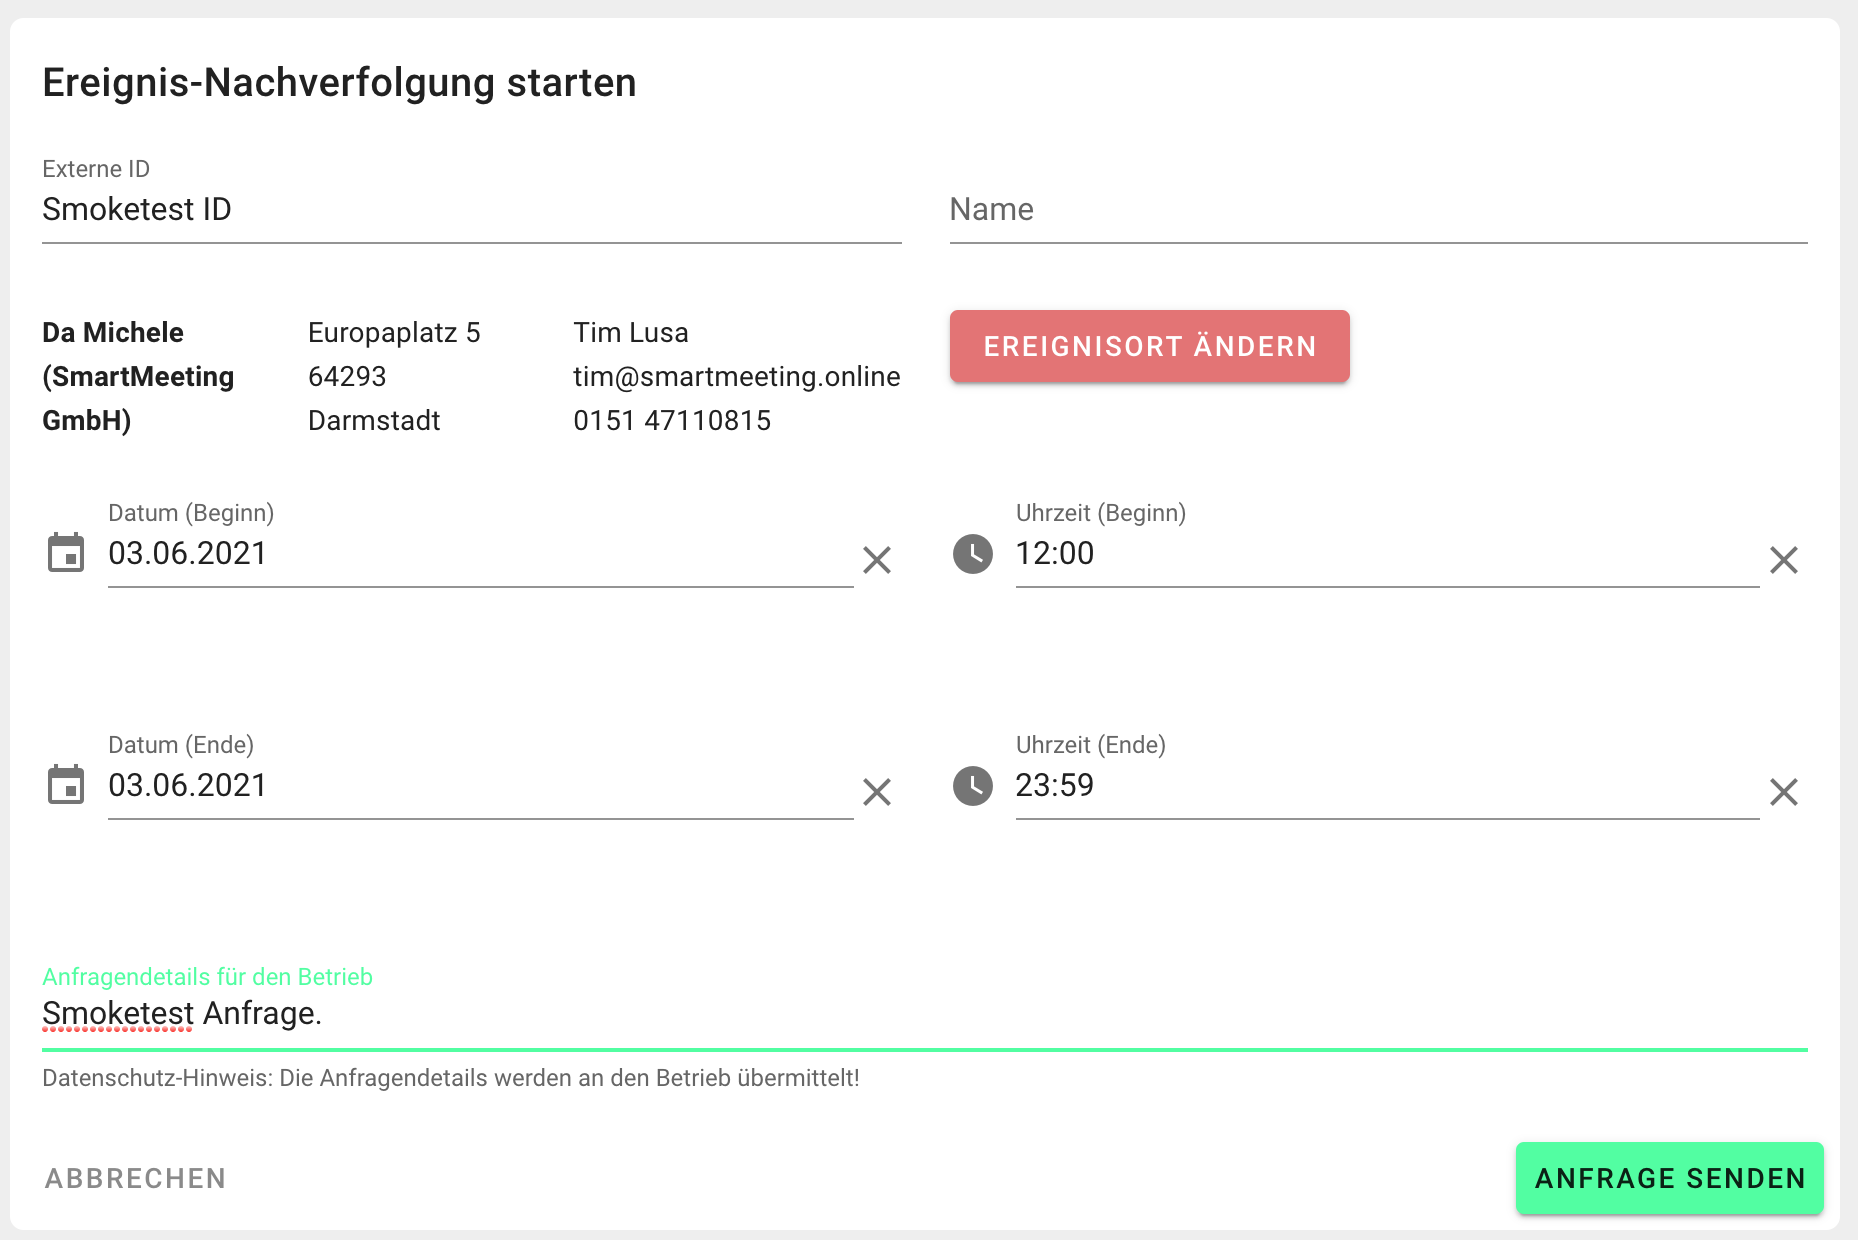
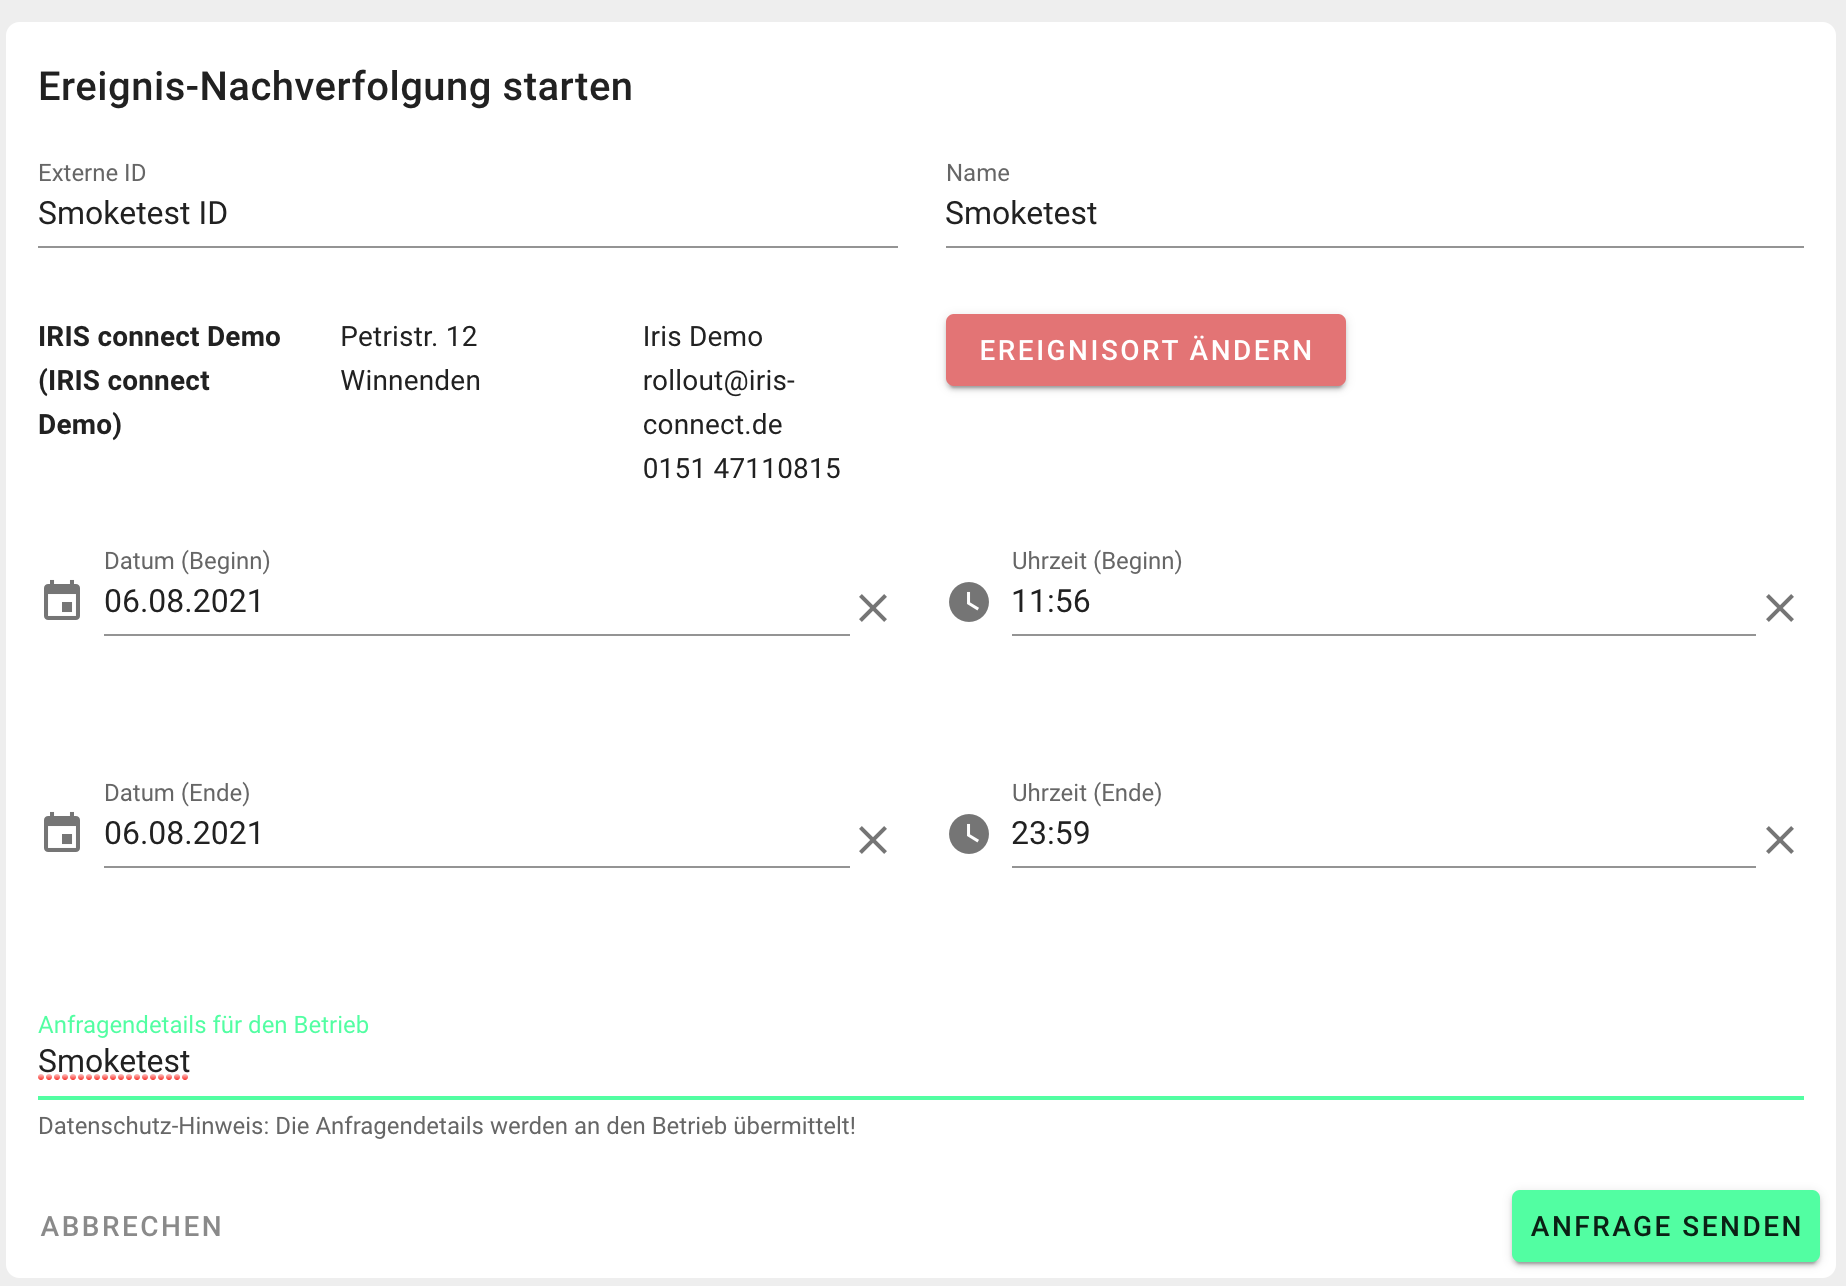
Updates smoketest with correct location.

diff --git a/infrastructure/deployment/docs/Smoketest.md b/infrastructure/deployment/docs/Smoketest.md
@@ -13,12 +13,25 @@ Unabhängig von der Installationsvariante können Sie testen, ob die Installatio
    ![](images/smoketest/NewEvent.png)
 
 
-1. Klicken Sie auf Ereignisort auswählen und suchen Sie nach `Da Michele (SmartMeeting GmbH)`. Klicken Sie auf `Wählen`.
+1. Klicken Sie auf Ereignisort auswählen und suchen Sie nach `IRIS connect Demo`. Klicken Sie auf `Wählen`.
 
    ![](images/smoketest/SearchResult.png)
 
-1. Füllen Sie die restlichen Anfrage Parameter aus. Wählen Sie als Zeitraum den 03. Juni von 12:00 bis 23:59. Klick Sie auf `Anfrage senden`.
+1. Füllen Sie die restlichen Anfrage Parameter aus. Sie können jeden beliebigen Zeitraum wählen. Klick Sie auf `Anfrage senden`.
 
    ![](images/smoketest/EventRequest.png)
 
-Bei `Da Michele (SmartMeeting GmbH)` handelt es sich um eine Test Lokation, die eigens für einen Smoketest zur Verfügung steht. Die Lokation liefert fiktive Testdaten für den 03. Juni. 
+1. Als Ergebnis können Sie die Gästelisten-Daten einsehen. 
+
+   ![](images/smoketest/EventResponse.png)
+
+
+Bei `IRIS connect Demo` handelt es sich um eine Test Lokation, die eigens für einen Smoketest zur Verfügung steht. Die Lokation liefert immer 3 fiktive Testdatensätze unabhängig vom angefragten Datum. 
+
+Bei einem erfolgreichen Test haben Sie folgende Punkte sichergestellt. 
+
+- [x] Ihre Installation kann mit IRIS kommunizieren.
+- [x] Ihre Installation kann mit den App Anbietern kommunizieren.
+- [x] Die Zertifikate sind richtig konfiguriert.
+
+Sollte es bei dem Smoketest zu Problemen kommen, melden Sie sich bei `rollout@iris-connect.de`.
